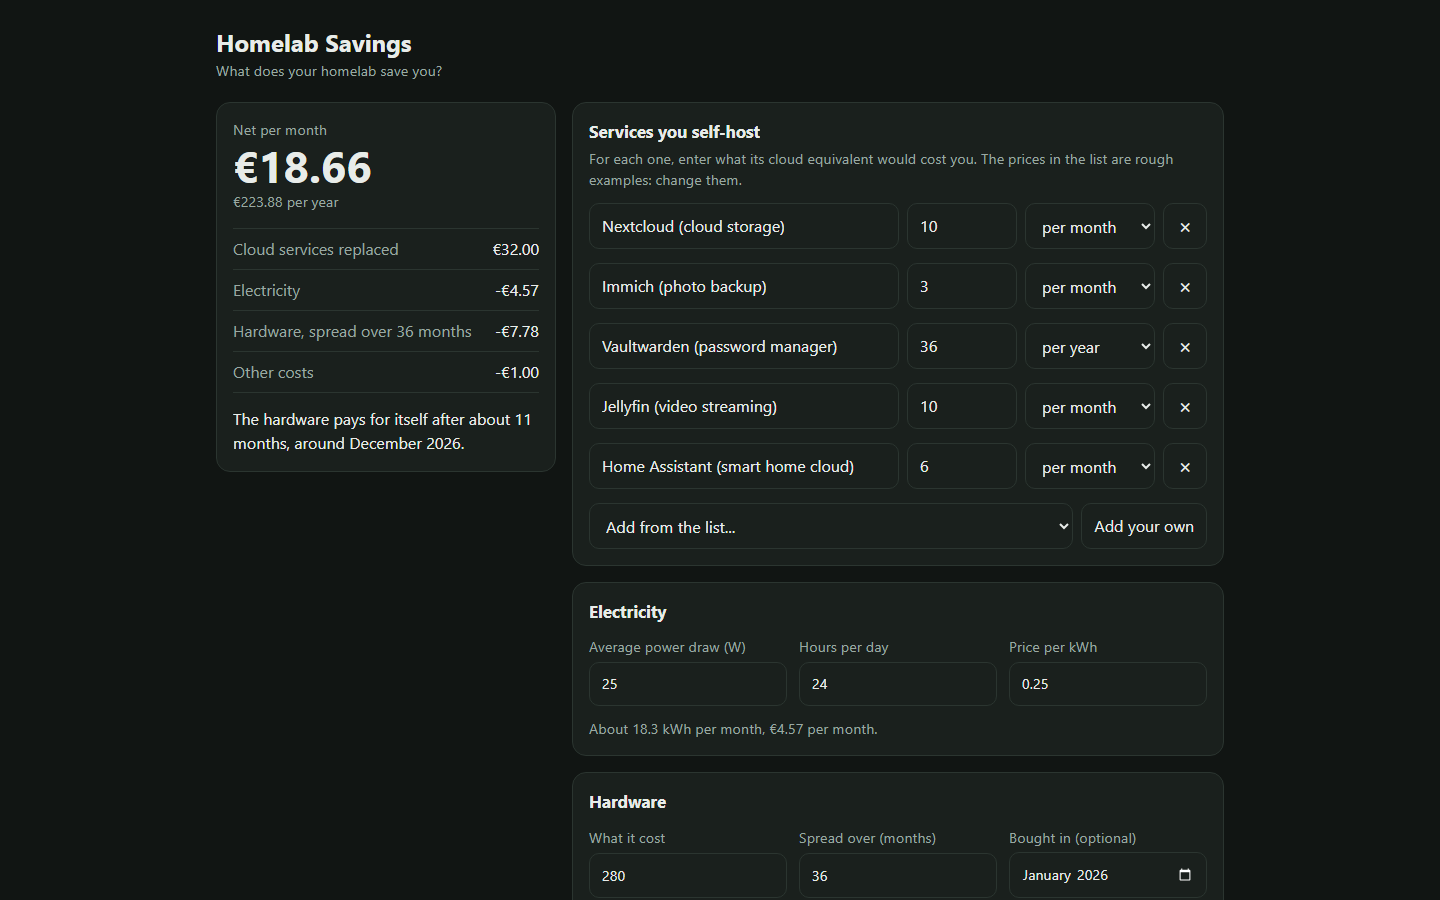
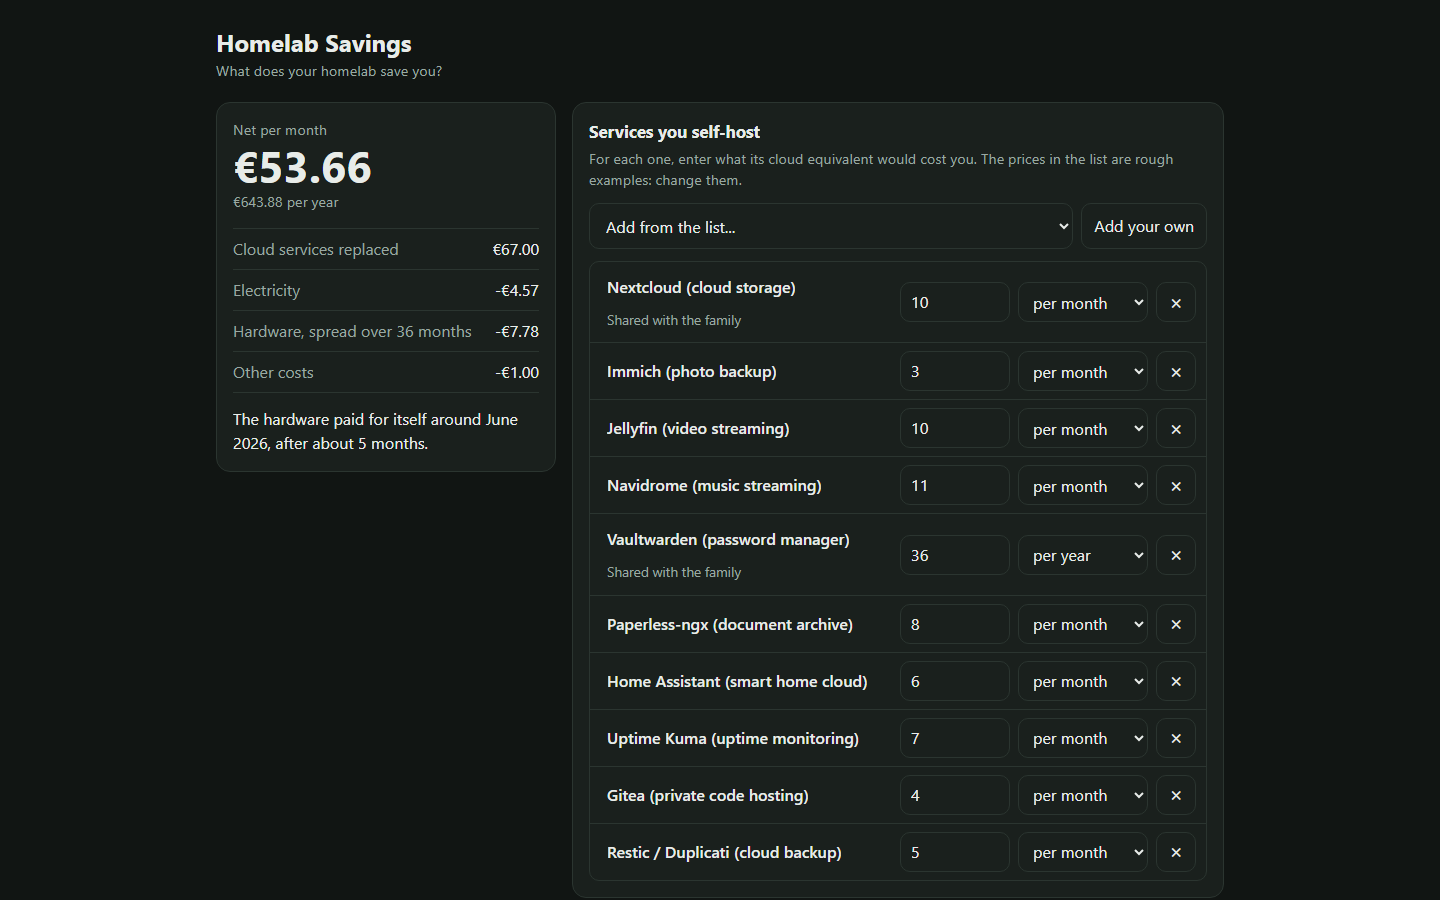
refactor: show services and costs as a compact list

diff --git a/web/app.css b/web/app.css
@@ -87,15 +87,36 @@ header { margin-bottom: 20px; }
 .breakdown dd { margin: 0; font-variant-numeric: tabular-nums; text-align: right; }
 .payback { margin-top: 14px; }
 
-.rows { margin-top: 12px; }
+.rows {
+  margin-top: 12px;
+  border: 1px solid var(--line);
+  border-radius: 10px;
+}
+.rows:has(> .empty) { border: 0; }
 .row {
   display: grid;
-  grid-template-columns: 1fr 1fr auto;
-  gap: 8px;
-  margin-bottom: 14px;
+  grid-template-columns: 1fr 1fr 40px;
+  align-items: center;
+  gap: 4px 8px;
+  padding: 8px 10px;
+  border-bottom: 1px solid var(--line);
 }
-.row .name, .row .note { grid-column: 1 / -1; }
-.empty { margin: 12px 0; }
+.row:last-child { border-bottom: 0; }
+.row .title { grid-column: 1 / 3; grid-row: 1; display: grid; }
+.row button { grid-column: 3; grid-row: 1; width: 40px; min-height: 40px; padding: 0; }
+.row .name, .row .note {
+  background: transparent;
+  border-color: transparent;
+  border-radius: 6px;
+  padding: 4px 6px;
+  min-height: 34px;
+}
+.row .name { font-weight: 600; }
+.row .note { color: var(--muted); font-size: 0.85rem; min-height: 28px; }
+.row .name:hover, .row .note:hover { border-color: var(--line); }
+.row:not(:focus-within) .note:placeholder-shown { display: none; }
+.row input[type="number"], .row select { min-height: 40px; padding: 6px 10px; }
+.empty { margin: 12px 0 0; }
 
 .fields {
   display: grid;
@@ -122,7 +143,7 @@ input:focus-visible, select:focus-visible, button:focus-visible {
 }
 
 button { cursor: pointer; width: auto; }
-button.icon { width: 44px; padding: 0; font-size: 1.3rem; line-height: 1; }
+button.icon { width: 40px; padding: 0; font-size: 1.3rem; line-height: 1; }
 button:hover { border-color: var(--accent); }
 
 .actions { display: flex; gap: 8px; flex-wrap: wrap; margin-top: 12px; }
@@ -143,12 +164,9 @@ footer { display: flex; justify-content: space-between; gap: 12px; flex-wrap: wr
 }
 
 @media (min-width: 560px) {
-  .row { grid-template-columns: 1fr 110px 130px auto; }
-  .row .name { grid-column: 1; grid-row: 1; }
-  .row input[type="number"] { grid-column: 2; grid-row: 1; }
-  .row select { grid-column: 3; grid-row: 1; }
-  .row button { grid-column: 4; grid-row: 1; }
-  .row .note { grid-column: 1 / -1; grid-row: 2; }
+  .row { grid-template-columns: 1fr 110px 130px 40px; }
+  .row .title { grid-column: 1; grid-row: auto; }
+  .row button { grid-column: auto; grid-row: auto; }
 }
 
 @media (prefers-reduced-motion: no-preference) {

diff --git a/web/index.html b/web/index.html
@@ -35,11 +35,11 @@
     <section class="card">
       <h2 data-i18n="services.title">Services you self-host</h2>
       <p class="muted" data-i18n="services.hint">For each one, enter what its cloud equivalent would cost you. The prices in the list are rough examples: change them.</p>
-      <div id="services" class="rows"></div>
       <div class="actions">
         <select id="catalog" data-i18n-aria="services.catalog"></select>
         <button type="button" id="add-service" data-i18n="services.custom">Add your own</button>
       </div>
+      <div id="services" class="rows"></div>
     </section>
 
     <section class="card">
@@ -71,10 +71,10 @@
     <section class="card">
       <h2 data-i18n="others.title">Other costs</h2>
       <p class="muted" data-i18n="others.hint">Domain, VPN, a faster internet plan, backups...</p>
-      <div id="others" class="rows"></div>
       <div class="actions">
         <button type="button" id="add-other" data-i18n="others.add">Add a cost</button>
       </div>
+      <div id="others" class="rows"></div>
     </section>
 
     <section class="card">

diff --git a/web/js/app.js b/web/js/app.js
@@ -93,7 +93,7 @@ function row(kind, item) {
     renderLists();
     changed();
   };
-  return el('div', { className: 'row' }, name, note, price, periodSelect(item), remove);
+  return el('div', { className: 'row' }, el('div', { className: 'title' }, name, note), price, periodSelect(item), remove);
 }
 
 function renderLists() {
